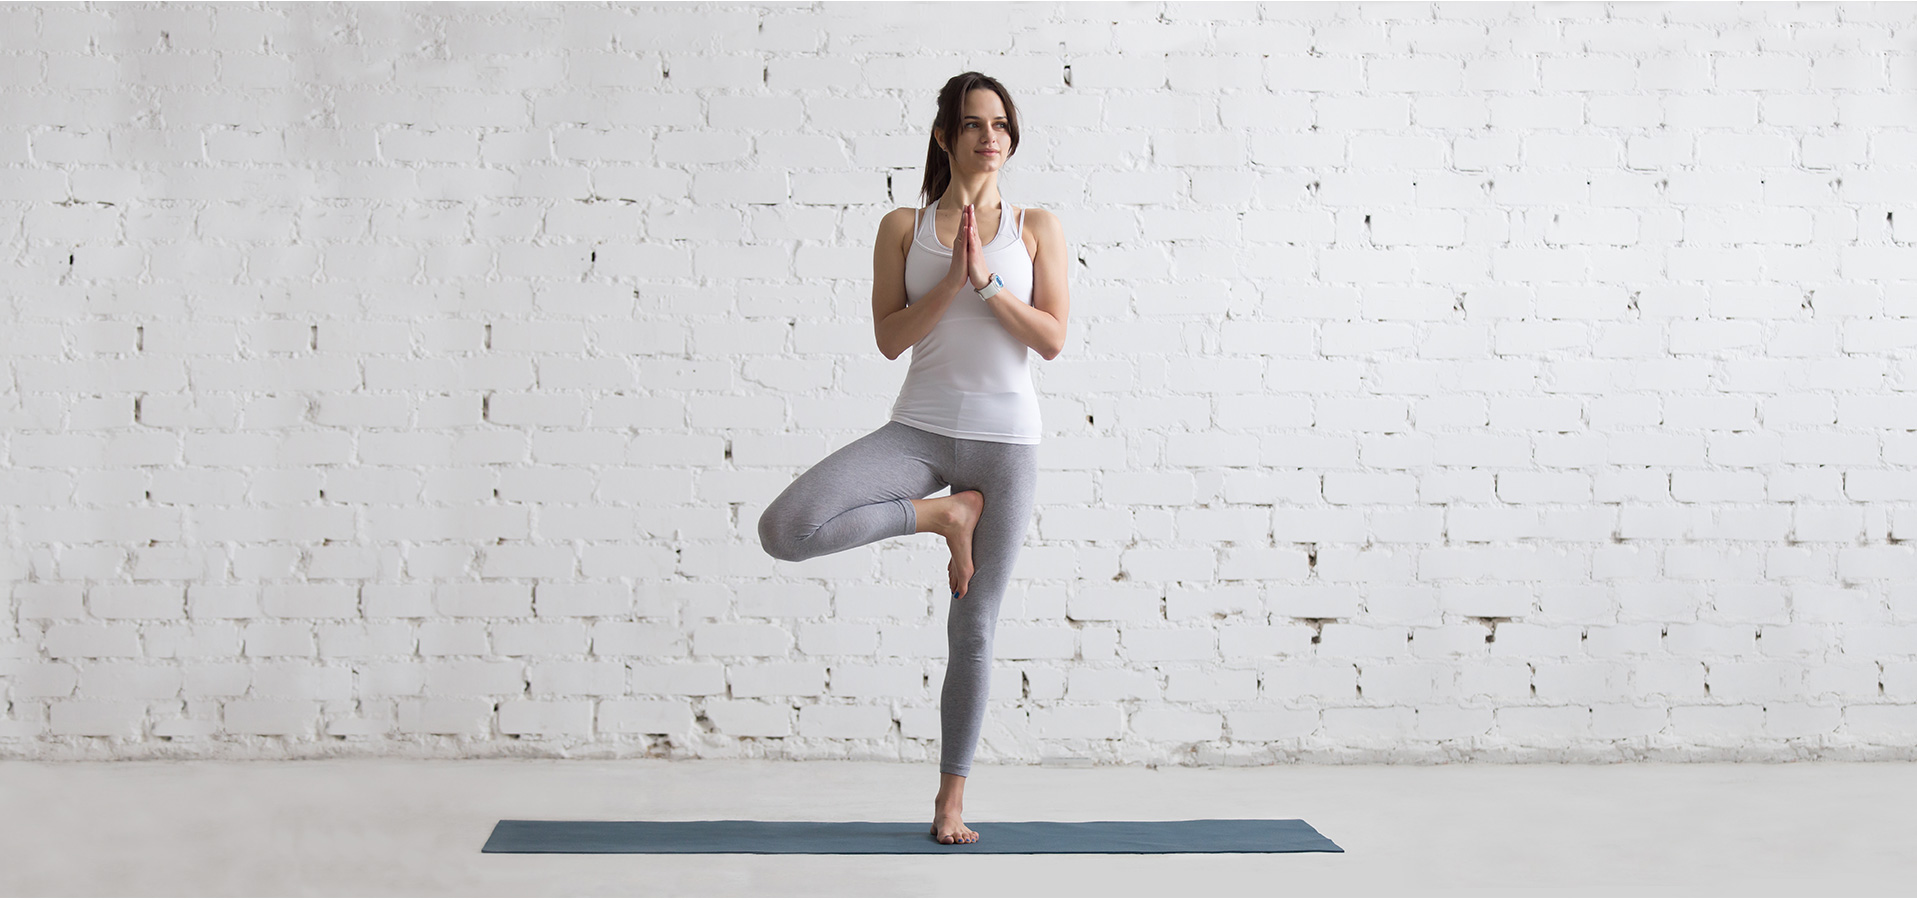
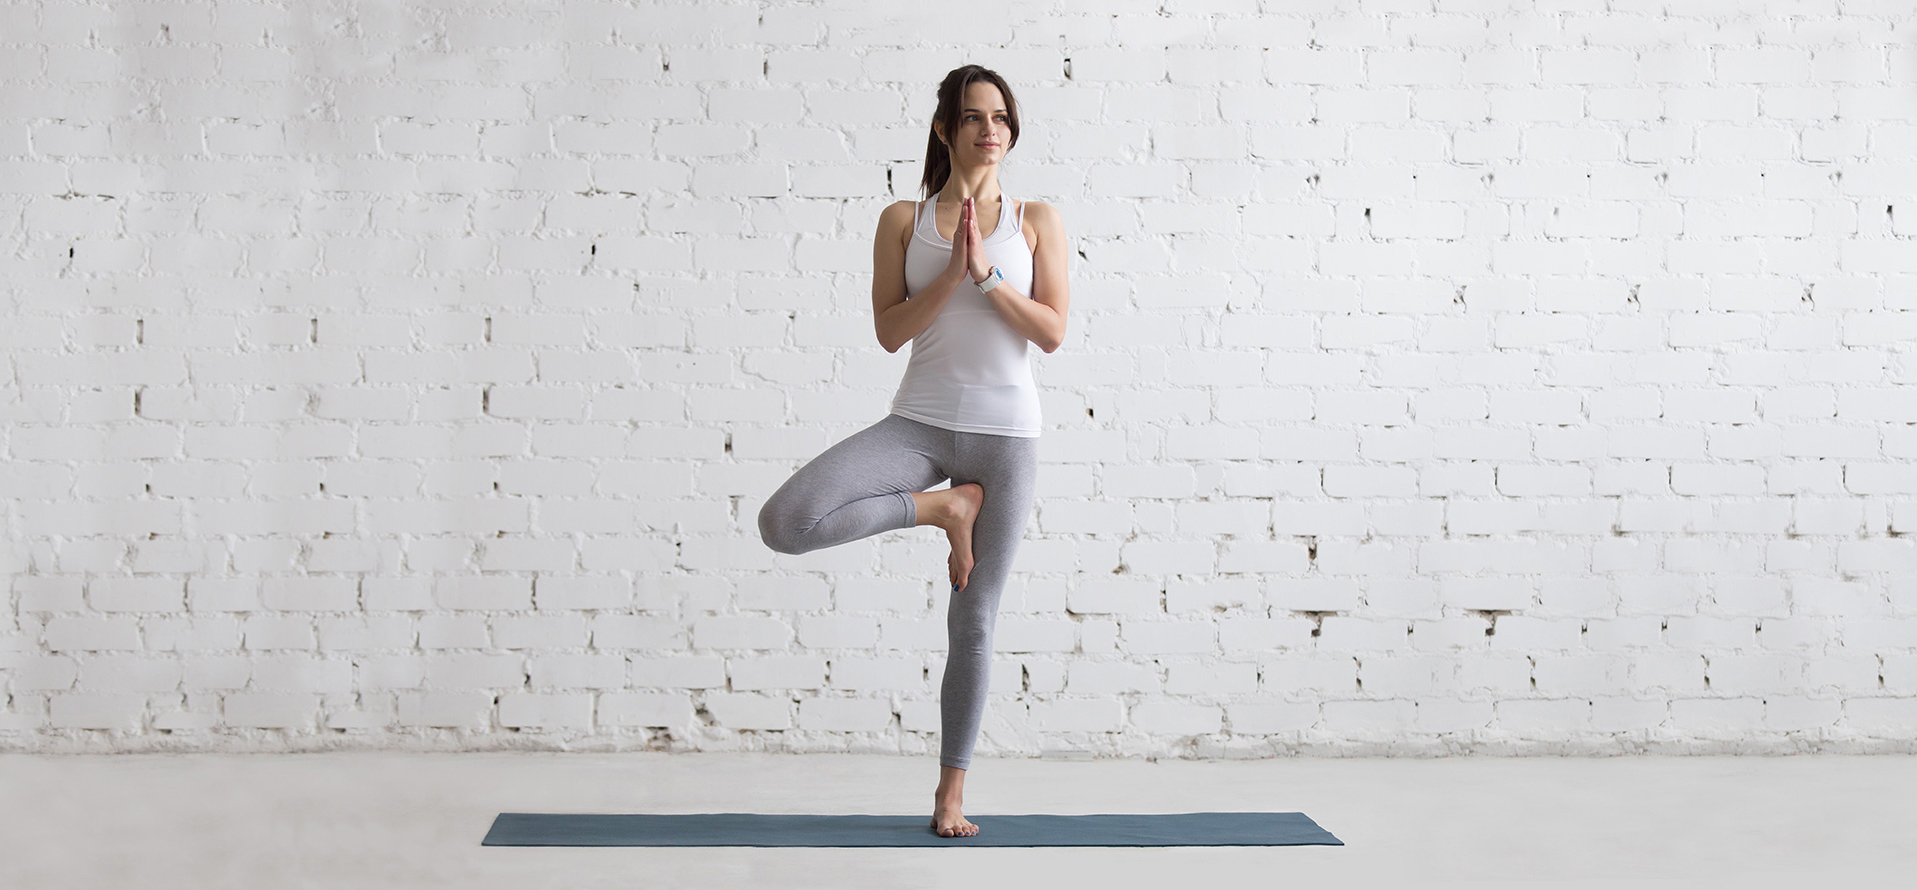
Last section ended

diff --git a/style.css b/style.css
@@ -22,7 +22,7 @@ a{
 /*header-top*/
 
 .background-wrapper {
-	height: 900px;
+	height: 890px;
 	background-image: url('images/background.jpg');
 	background-repeat: no-repeat;
 	background-position: center;
@@ -181,6 +181,10 @@ a{
 	width: 46px;
 	height: 56px;
 }
+
+.triangle img {
+	padding-left: 5px;
+}
 /*right-block*/
 
 .form {
@@ -297,15 +301,15 @@ a{
 	line-height: 60px;
 	font-size: 48px;
 	font-weight: 800;
-	border-bottom: 1px solid #d2cad5;
-	border-left: 1px solid #d2cad5;
+	border-bottom: 2px solid #d2cad5;
+	border-left: 2px solid #d2cad5;
 }
 
 .top div :after {
 	display: flex;
 	justify-content: flex-start;
-	border-bottom: 1px solid #d2cad5;
-	border-left: 1px solid #d2cad5;
+	border-bottom: 2px solid #d2cad5;
+	border-left: 2px solid #d2cad5;
 }
 
 .top h1 {
@@ -318,8 +322,12 @@ a{
 	flex-direction: column;
 	justify-content: center;
 	height: 266px;
-	border-bottom: 1px solid #d2cad5;
-	border-left: 1px solid #d2cad5;
+	border-bottom: 2px solid #d2cad5;
+	border-left: 2px solid #d2cad5;
+}
+
+.middle div:last-child {
+	border-right: 2px solid #d2cad5;
 }
 
 
@@ -328,9 +336,14 @@ a{
 	flex-direction: column;
 	justify-content: center;
 	height: 266px;
-	border-bottom: 1px solid #d2cad5;
-	border-left: 1px solid #d2cad5;
+	border-bottom: 2px solid #d2cad5;
+	border-left: 2px solid #d2cad5;
 }
+
+.middle2 div:last-child {
+	border-right: 2px solid #d2cad5;
+}
+
 
 .number {
 	color: #66b045;
@@ -379,6 +392,51 @@ a{
 	letter-spacing: 0.46px;
 }
 
+/*lection*/
+.lection {
+	height: 685px;
+	background-image: url(images/yoga.jpg);
+	background-position: center center;	
+}
+
+.lection-right {
+	display: flex;
+	flex-direction: column;
+}
+
+.lection-right div {
+	display: flex;
+	height: 125px;
+	align-items: center;
+	justify-content: flex-start;
+	margin-top: 23px;
+	margin-left: 10px;
+}
+
+.lection-right p {
+	color: #ffffff;
+	font-size: 24px;
+	font-weight: 400;
+	line-height: 28px;
+	padding-left: 30px;
+}
+
+.lection-right h1 {
+	color: #ffffff;
+	font-size: 48px;
+	font-weight: bold;
+	line-height: 50px;
+	padding-left: 30px;
+}
+
+.lection-right img {
+	margin: 0 auto;
+}
+.imgWrapper {
+	width: 126px;
+	height: 125px;
+	background-image: url(images/whiteround.png);
+}
 
 /*footer*/
 .footer {
@@ -395,10 +453,14 @@ a{
 	line-height: 15px;
 	text-decoration: underline;
 	letter-spacing: 0.46px;
-	text-align: right;
 }
 
+
 .copyrights {
+	text-align: left;
+}
+
+.politic {
 	text-align: right;
 }
 
@@ -406,24 +468,5 @@ a{
 	min-height: 96px;
 }
 
-/*lection*/
-.lection {	
-}
 
-.lection-left {
-	height: 692px;
-	background-image: url(images/yoga.jpg);
-}
-
-.lection-right {
-	height: 692px;
-	background-image: url(images/yoga.jpg);
-	transform: scaleX(-1);
-	background-color: rgba(152,171,186, 0.9);
-}
-
-.bg {
-	height: 692px;
-	background-color: rgba(152,171,186, 0.9);
-}
 

diff --git a/index.html b/index.html
@@ -119,11 +119,21 @@
 	<article>
 		<div class="container-fluid lection">
 			<div class="row">
-				<div class="col-lg-7 lection-left"></div>
-				<div class="col-lg-5 lection-right">
-					<div class="row bg">
-						
-					</div>
+				<div class="col-lg-6 lection-left"></div>
+				<div class="col-lg-6 lection-right">
+							<div><h1>Лекция для вас,<br>если вы:</h1></div>
+							<div>
+								<div class="imgWrapper"><img src="images/yogaIcon1.png" height="72" width="72" alt=""></div>
+								<p>Увлекаетесь<br>йогой</p>
+							</div>
+							<div>
+								<div class="imgWrapper"><img src="images/yogaIcon2.png" height="82" width="56" alt=""></div>
+								<p>Интересуетесь<br>культурно-философским<br>наследием Индии</p>
+							</div>
+							<div>
+								<div class="imgWrapper"><img src="images/yogaIcon3.png" height="69" width="93" alt=""></div>
+								<p>Хотите узнать<br>новые принципы работы<br>с телом и умом</p>
+							</div>
 				</div>
 			</div>
 		</div>
